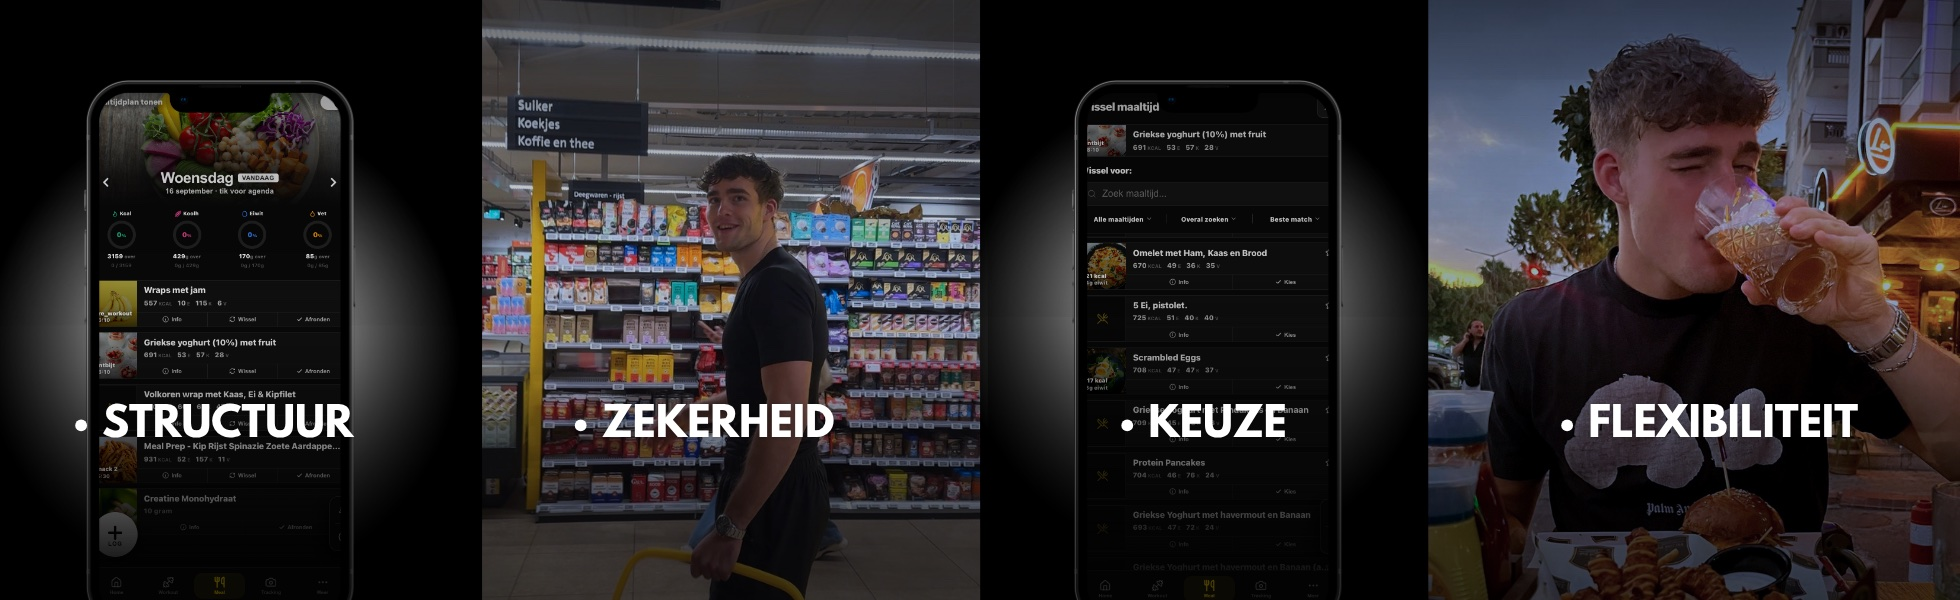
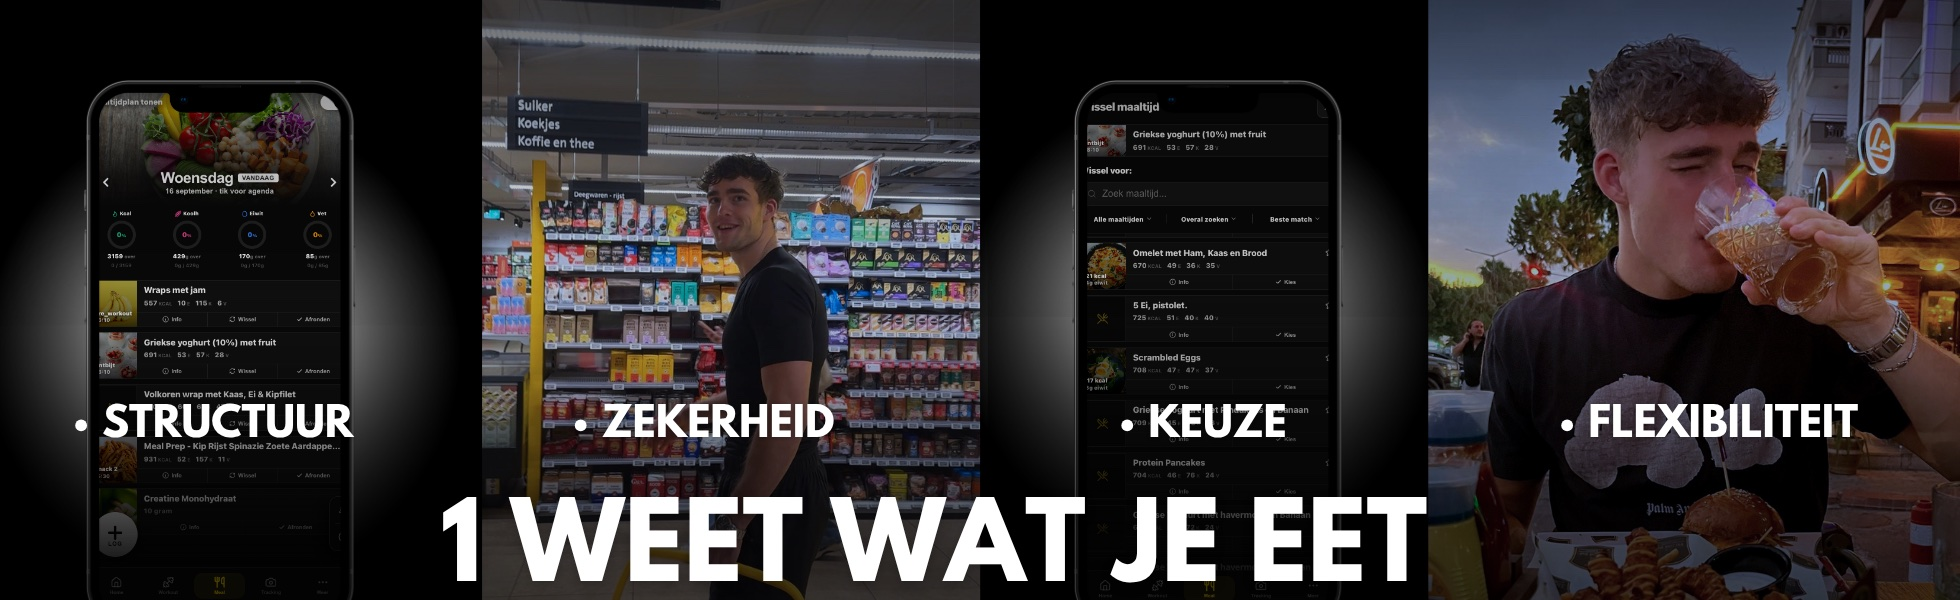
content(6weekchallenge): slide 1 met titel op het beeld
Nieuw voedingsbeeld waarop '1 WEET WAT JE EET' al staat; de pagina laat de
kop dan weg voor die slide. Slide 2 houdt zijn kop in de pagina, want dat
beeld draagt alleen de kernwoorden.

Claude-Session: https://claude.ai/code/session_012UAznq9TTy2JDWx6uHtnyR

Changed region(s): [[0.2179, 0.81, 0.7469, 0.99]]

diff --git a/src/pages/SixWeekChallengePage.jsx b/src/pages/SixWeekChallengePage.jsx
@@ -63,6 +63,8 @@ const PIJLERS = [
     // weg uit de tekst eronder, anders staat alles er twee keer.
     foto: '/methode/voeding-slide.jpg',
     beeldVult: true,
+    // De titel staat op dit beeld, dus de pagina zet er geen tweede boven.
+    titelInBeeld: true,
     kop: 'Weet wat je eet',
     zin: 'Vaste structuur in de app, zonder rekenen. Etentjes bouwen we in.',
     doen: [
@@ -211,14 +213,16 @@ function MethodeSlider({ isMobile, onClose }) {
               PIJLER {i + 1} VAN {PIJLERS.length}
             </div>
           )}
-          <div style={{
-            fontSize: isMobile ? '1.7rem' : '2.6rem', fontWeight: 900,
-            letterSpacing: '-0.03em', lineHeight: 1.08,
-            textShadow: '0 2px 14px rgba(0,0,0,0.85)',
-          }}>
-            <span style={{ color: GOLD }}>{i + 1}. </span>
-            {p.kop}
-          </div>
+          {!p.titelInBeeld && (
+            <div style={{
+              fontSize: isMobile ? '1.7rem' : '2.6rem', fontWeight: 900,
+              letterSpacing: '-0.03em', lineHeight: 1.08,
+              textShadow: '0 2px 14px rgba(0,0,0,0.85)',
+            }}>
+              <span style={{ color: GOLD }}>{i + 1}. </span>
+              {p.kop}
+            </div>
+          )}
           {!p.beeldVult && (
             <p style={{
               margin: `${isMobile ? 10 : 14}px 0 ${isMobile ? '1.4rem' : '2rem'}`,
